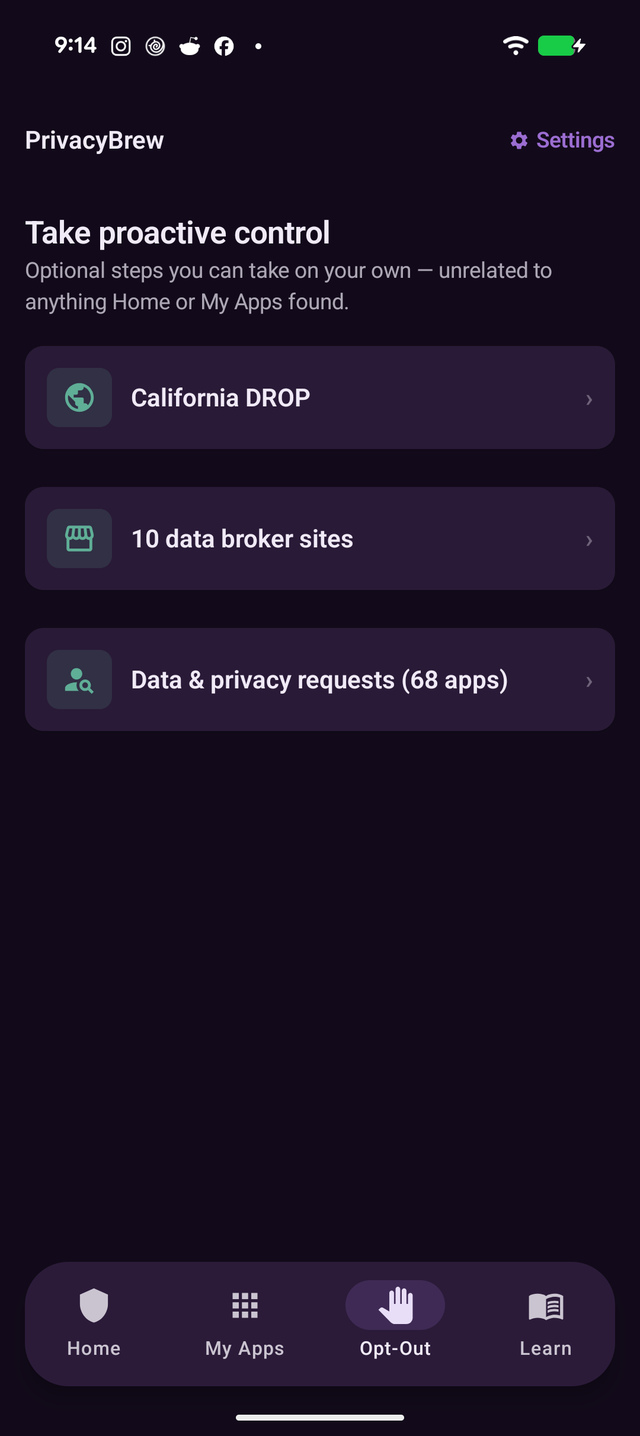
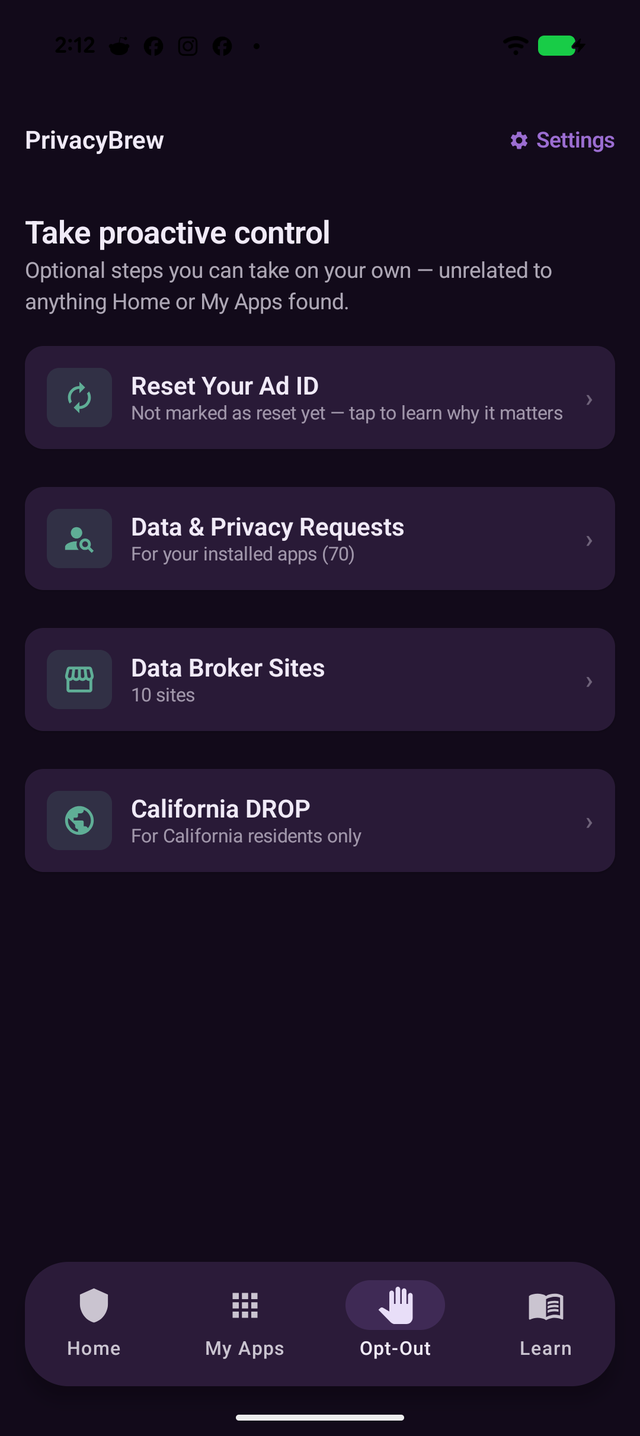
Update Opt-Out screenshot and alt text for redesigned card order
- Recaptured optout.png to reflect the current 4-card layout: Reset
  Ad ID (now first), Data & Privacy Requests, Data Broker Sites,
  California DROP.
- Updated alt text to mention the reset ad ID card.

diff --git a/index.html b/index.html
@@ -115,7 +115,7 @@
             </div>
             <h3>Opt-out & data requests</h3>
           </div>
-          <div class="shot-wrap"><img src="assets/img/screenshots/optout.png" alt="Opt-Out tab with California DROP, data broker sites, and data request cards"></div>
+          <div class="shot-wrap"><img src="assets/img/screenshots/optout.png" alt="Opt-Out tab with reset ad ID, data & privacy requests, data broker sites, and California DROP cards"></div>
         </div>
 
         <div class="shot-gallery-item">
